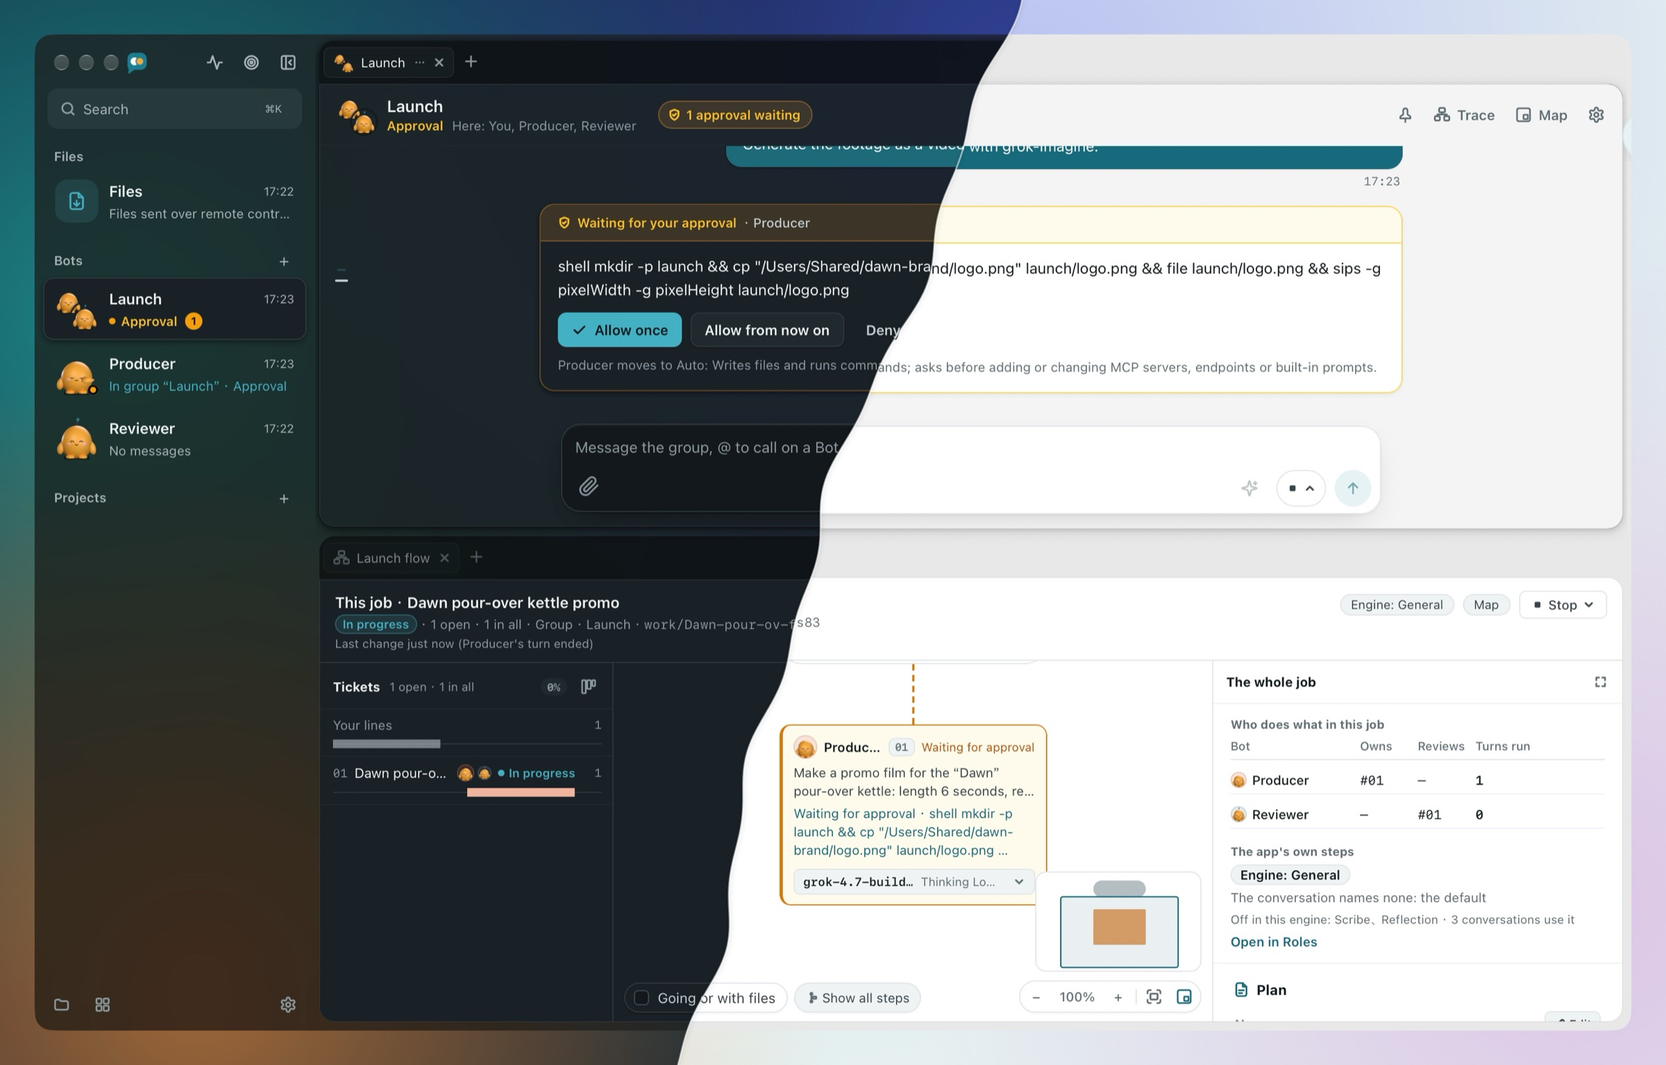
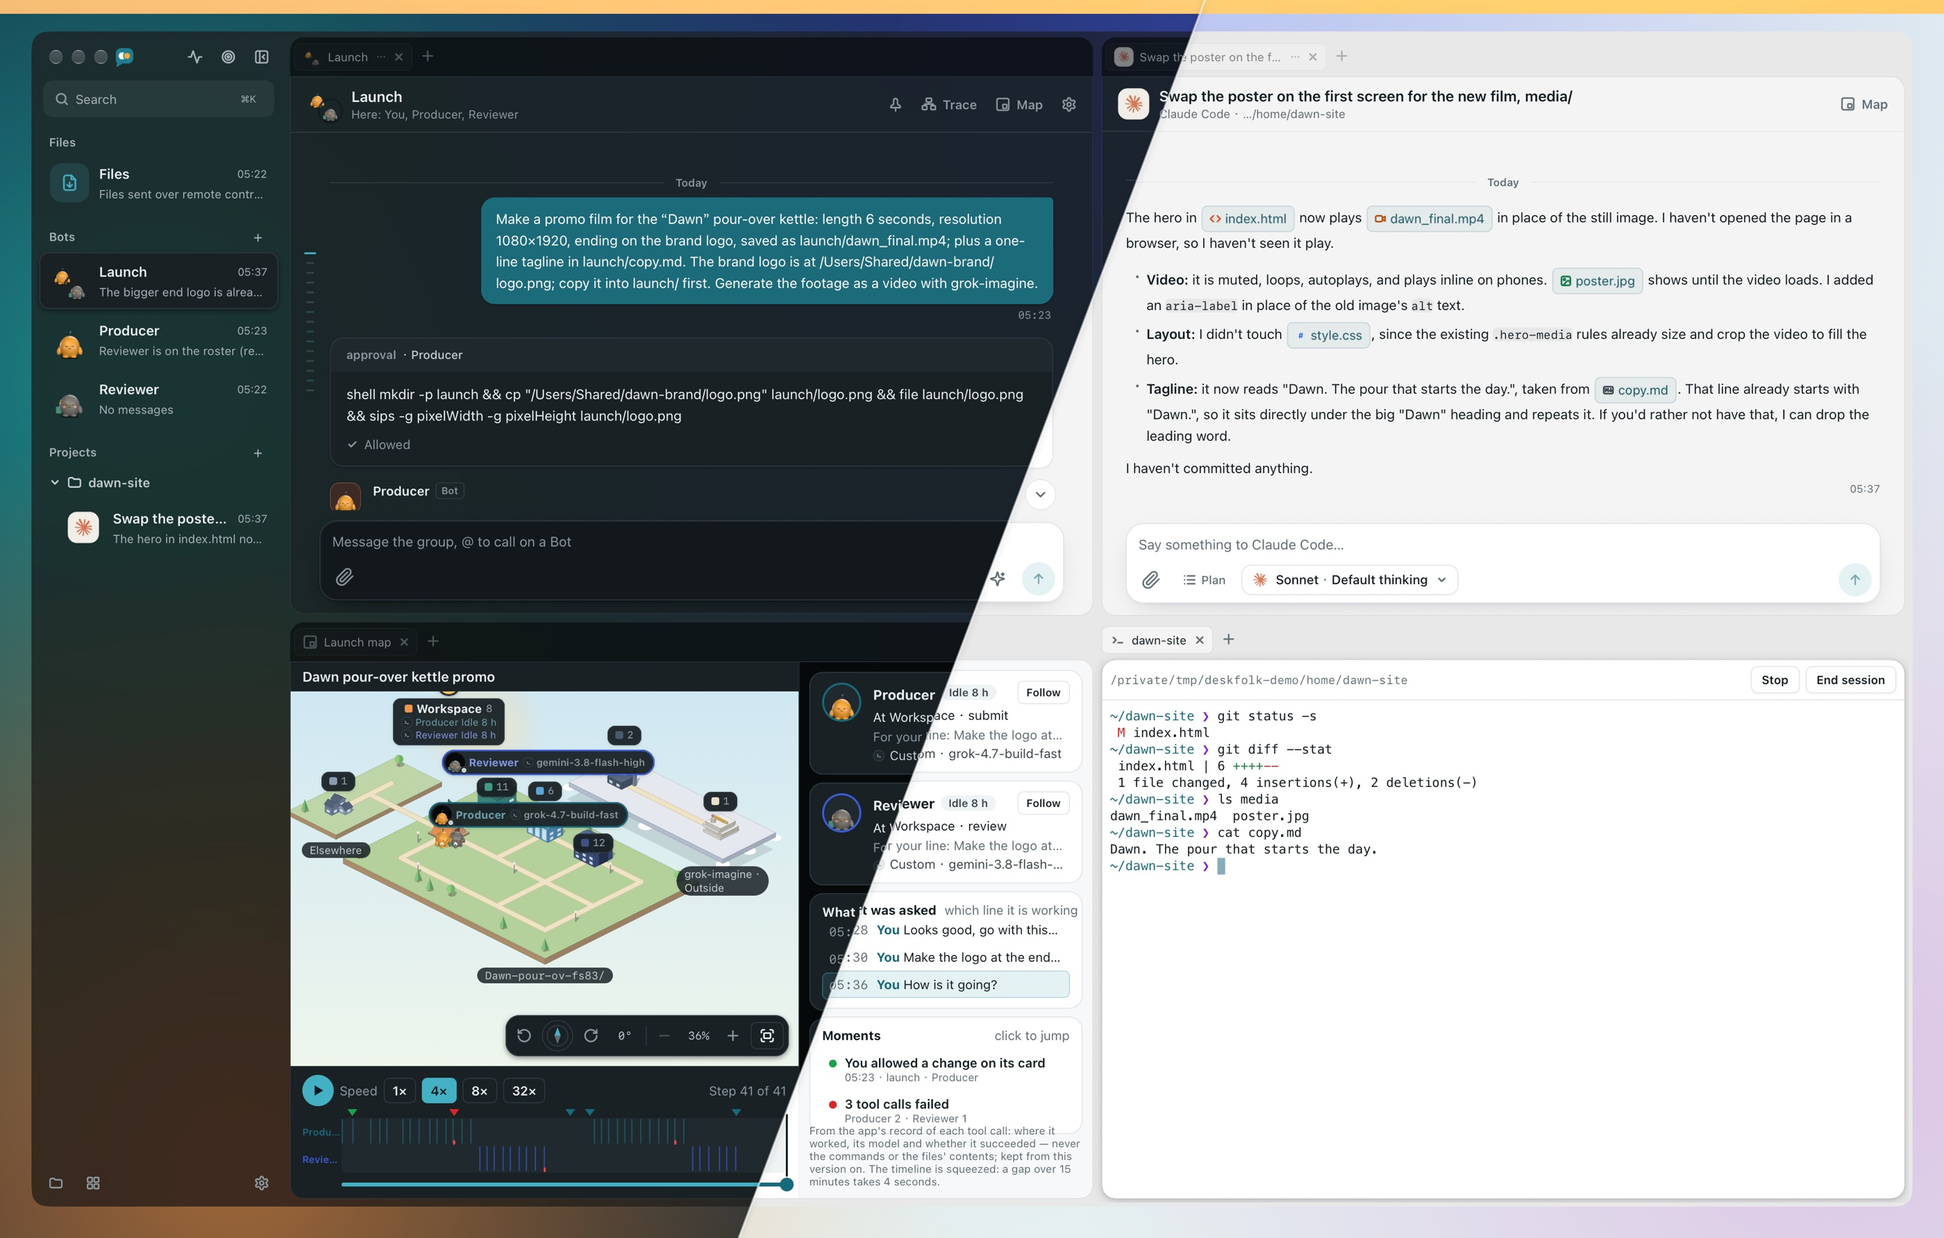
feat(landing): README shots as one big window split evenly
The README's desktop pictures showed one or two panes in a 1480x924
window. Each is now the native app at 1920x1200, split evenly into
2x2 or 3x2 panes: several conversations, task maps, the flow and the
board, a terminal, the routines calendar, spend and roles, around the
moment its caption names. Dark and light are joined along a straight
slanted seam instead of a waving one, and neighbouring pictures slant
opposite ways (ask, done, map /; stop, desk, project \). The Bots wear
their task map characters. Exported 2800 px wide so the click-through
stays legible; the alt texts say what each picture holds.

diff --git a/docs/development.md b/docs/development.md
@@ -825,6 +825,8 @@ README 顶部是短片（30.5 秒，做法见 `apps/landing/scripts/reel/BRIEF.m
 
 真实界面版的宣传片由 `apps/landing/scripts/film/live.ts` 录制，画面是真的信使、真的守护进程：先 `node scripts/film/live.ts shoot` 真跑一遍，再 `node scripts/film/live.ts film` 按录下的回复重演并录制，最后 `node scripts/film/recut.ts` 把耗时长的步骤按整小节快进（默认第 5、8 步 4×，画面右上角标出倍速，标的是取整后的倍数，所以只用整数倍；英文录制里第 7 步多等了一次应用对制片的提醒，上次用的是 `--speed 5=4,7=4,8=2`）并按新时间轴配乐，成片为 `film-out/deskfolk-live-<lang>-<theme>-cut.mp4`。演示用的是隔离实例：`apps/daemon/scripts/demo-studio.ts` 在 `/private/tmp/deskfolk-demo` 里起一个空的守护进程（独立数据目录和 HOME、内存钥匙串；调度照常运行，监督器、外部作业的轮询和没有审查者时的放行都靠它），从首次设置向导开始；它的模型端点与 MCP 是 `apps/daemon/scripts/demo-tape.ts`。真跑时 demo-tape 把请求转给你本机正在用的端点和名为 `westlake-cpa` 的 MCP（地址取自本机守护进程，密钥从 macOS 钥匙串读出、只加在上游请求上，不进演示实例也不进录制数据），按「调用类型 + Bot + 次序」记下每次回复，并把 MCP 返回的图片、视频缓存到 `film-out/tape-<lang>/`；MCP 的响应边收边转给演示实例，收完才记下（上游出图时每 15 秒发一次保活 ping，要是收完再转，守护进程等响应头的 30 秒一到就把调用掐断）。回放时按同样的键答复，两次运行里不同的 ULID 和工作目录名按上下文配对替换，curl 下载经演示 HOME 里的 `.curlrc` 转到本地缓存，所以命令原样也能跑通。各 Bot 的回合和让渲染结束的那次查询，按真跑时记下的先后放出（`demo-tape-order.ts`）：应用按自己的时钟去查渲染，回放又答得比模型快，不排先后的话，第二个渲染的「完成」会落到制片这一轮结束之后，审片的结论先把它叫醒，故事就走岔了，录制数据也会用完。轮到某个渲染的「完成」时，demo-tape 经 demo-studio 的控制口（`127.0.0.1:17958`，环境变量 `REAL_BOT_DEMO_CONTROL`）请演示实例在下一拍就去查，没轮到时来查的先答「还在跑」；一直没来的条目挡住后面的请求超过 60 秒（渲染的 90 秒）就跳过，日志里记一行 `SKIP`。`tape-usage.json` 的 `skipped` / `neverAsked` 列出跳过的和一直没被要的，这两项和 `misses` 都空，这次回放才和真跑一致。回放只花一两分钟、结果一致、不再调用模型。剧本在 `scripts/film/story.ts`（中英两套台词），`film-stage.ts` 负责对齐小节、光标、镜头和实时抓帧（Chrome screencast 以 60fps 采样进 ffmpeg），画面由只在开发态渲染的 `/film/<lang>/live` 页面合成。录制默认按 2 倍像素密度（`--scale 2`，原片 3840×2160）：Chrome 的 screencast 只在显示器本身是高密度时才给设备像素，Playwright 模拟的 `deviceScaleFactor` 不算，所以 `film` 另开一个带 `--force-device-scale-factor` 的 Chrome 来录；交给 Bot 的 logo 仍在 1 倍的那个浏览器里画，命令输出和录制对得上。实测 screencast 在 2 倍下 45–50fps，录制照样按 60fps 的时钟写帧。信使由 `scripts/film/serve-quiet.mjs` 起（开 HMR 但不监听文件，别的改动不会中途刷新页面）；换了依赖后先让 Vite 的依赖缓存稳定下来：回放已经对不上现在的守护进程，就用 `serve-quiet.mjs` 在另一个端口起一份信使，把 `src/` 下每个 `.svelte` / `.ts` 模块都请求一遍（预览窗格的 monaco、pdfjs 这些只在打开时才加载），直到 Vite 的日志里不再出现新优化的依赖。演示 HOME 里的 `ls` 包装把长列表的属主显示成数字，避免录进你的用户名。中文台词录一次、英文要再真跑一次（`--lang en`），明暗主题只需重新回放（`--theme dark`）。另一个会话的 Vite 占着演示信使的 5217 端口时，加 `--messenger-port <端口>` 换一个。录制数据只对得上录制时那一版守护进程的行为：之后守护进程改了 Bot 的工作目录这类东西，回放时模型的回复照样对得上，录下来的命令却会落空（比如成片写不进 `launch/`，产物窗格里显示「文件不在了」）。这时用 `--daemon <录制时那次提交的检出>/apps/daemon` 回放，信使仍是当前代码；要让画面里的守护进程行为也是新的，就重新 `shoot`。回放不把录下的 token 用量传回去：重演时的提示词总会长短差一点，守护进程见到「发得更多、读进更少」就按 ADR 0068 当成端点截断了提示词，这一轮直接失败。剧本里不在镜头里的几件事（给没写审查者的任务补上审片、确认从你的话里提出的检查、任务一出现就把制片的权限模式设成「改动先问」）都是等后台到了那一步才做；等你一句话的交件（ADR 0084）在群里说一句「可以，就用这版。」，说了两次两分钟后还在等，就在看板上直接通过；你的「先停一下」也等活歇下来才说，读句模型没赶上读它（超时，这句就当普通的话）时，剧本等 Bot 回完话，在镜头外补一个和「停下」按钮一样的叫停。可整理器、检查和审查卡各按自己的时钟走，回放又答得比模型快，它们和 Bot 回合的先后还是会变，故事会走岔（2026-10-10 的中文录制就在第 7 步岔开）。这时用 `node scripts/film/live.ts film --live`：录制时直接调用真模型（回复记到 `tape-<lang>-<theme>-live/`，不再回放），四套组合各真跑一次，每次约 10 分钟；等得久的步骤交给下面的 `clips.ts` 加速。真跑时 Bot 自己从 vidgen.x.ai 下载渲染结果，演示 HOME 里也没有 `.curlrc`，所以要留着代理环境变量（这台机器不走代理连不上它，制片下不到片子就停下来等你开网络）；只有回放才去掉代理变量，那时下载走本地缓存，代理反而让 curl 绕过 `.curlrc` 的转向。`--until <n>` 在 `film` 下也管用：拍完第 n 步就停，留下已录的部分，不配乐。
 
+README 的六张桌面截图（`docs/assets/app-<zh|en>-{ask,stop,done,desk,map,project}.jpg`）从 2026-11-12 起是原生（NSH）应用的大窗口：在一次录制留下的演示数据上开一个 1920×1200 的检查窗口，每张均分成 2×2 或 3×2 的窗格（几个会话、任务地图、流程、看板、终端、日程、花费、角色），同一屏用暗色和亮色各拍一张（透过窗口的玻璃，下面垫一张画好的底图），沿一条直的斜线拼成一张，暗色在左，相邻两张的斜线方向相反（ask、done、map 是「/」，stop、desk、project 是「\」），存成 2800 像素宽。拍图的脚本和布局留在本地的 `apps/landing/film-out/take-2026-11-12/`（`film-out/` 不进仓库）。下面说的从录制里切图、`desk.ts` 拍图是之前的做法，社交预览图仍然这样取。
+
 社交预览图和 README 的桌面截图也从这份录制来：对四种组合（`--lang zh|en` × `--theme light|dark`）各跑一遍 `node scripts/film/live.ts film`，再跑 `node scripts/film/clips.ts`（`--from <目录>` 指定录制所在的目录，默认 `film-out/`，要有 `*.silent.mp4`、`*.timeline.json` 和 `*.cues.json`；`--sets zh-dark` 只重做一套）。默认只取首屏静帧 `static/media/walkthrough/<lang>-<theme>/hero.jpg`（`og/[lang]` 和 README 的 `desk` 截图用它）；`--steps` 选几步时再把那几步各切成一段短片，首页已经不播这些短片，取完截图就用默认值再跑一遍，别把短片留在 `static/` 里。切短片时它按时间轴从 `deskfolk-live-<lang>-<theme>.silent.mp4`（录制原片，不是 recut 的成片）里切出每一步的小节，裁到舞台区域（CSS 尺寸 1480×924，不带宣传片两侧的标题；按原片的像素密度裁，2 倍录制就是 2960×1848），超过 11 秒的步骤按 0.5 一档加速到 10 秒上下，编成 30fps、无声的 H.264（CRF 30，`-tune stillimage`）；你走开的那一步（`--away`，默认第 6 步）不加速：窗口藏起来后录制里是一整段静止的桌面（等渲染，几十秒到几分钟），加速了也是十秒什么都不动，所以从 `*.cues.json` 里这一步的第一个和最后一个 `tick`（藏起和叫回窗口时托盘菜单打开）找出这段静止，只留 1.5 秒，在静止画面中间剪掉其余部分，接缝看不出来；窗口叫回来后再留 1.2 秒就结束，不等到下一个小节线（原速下那是几秒不动的窗口）；再取最后一步结束前的画面做首屏静帧。按原片的像素密度裁，高密度屏上一个设备像素对一个视频像素，字是清楚的。README 的四张截图 `docs/assets/app-<zh|en>-{ask,stop,done,desk}.jpg` 也从这里取：中文用 `zh-light`、英文用 `en-dark`，`ask`、`done` 是第 4、8 步短片的最后一帧（`ffmpeg -sseof -0.3 -i 04.mp4 -frames:v 1 -q:v 3 …`），`desk` 就是 `hero.jpg`；`stop` 不取第 7 步的最后一帧（那时制片已经交了改过的版本，画面里看不到叫停），取录制原片里你改 logo 那句发出后约 10 秒的一帧：叫停回执已标成「已解除」，下面是你那句话和正在接着做的制片（发出的时刻在 `*.cues.json` 第 7 步范围里最后一个 `send`，按舞台裁切，2 倍录制是 `crop=2960:1848:780:154`）；重做录制后一起重取：先用 `--steps 4,8` 切一遍取图，再用默认值跑一遍，把短片从 `static/` 里清掉。README 的另两张桌面截图 `docs/assets/app-<zh|en>-{map,project}.jpg` 由 `node scripts/film/desk.ts --demo /private/tmp/deskfolk-demo --out ../../docs/assets` 在同一次录制留下的数据上拍（和 `phone.ts` 一样经 `demo-up.ts` 重新起演示守护进程和信使，1480×924、2 倍像素密度，和从录制里切出的那几张一样大）：`map` 打开群里这件事的任务地图、拖到会话右边、放大一档，停在回放的 62% 处（`--map-at`），两个 Bot 都在干活的时候；地图的光照跟着那一刻的钟点走，按浏览器的时区算，夜里录的可以用 `--map-tz` 换个时区拍成白天（截图里的时间也跟着换）。`project` 在演示 HOME 下建一个小网站 `dawn-site`（`scripts/film/dawn-site/`，配上那次录制的成片和标语，`git init` 一次），开一个 Claude Code 项目会话（模型 `--model`，默认 `sonnet`），在输入框里请它把首屏换成这支片，等它做完，从回复里打开 `index.html`、切到源码，截会话和文件树加源码并排的一屏。这一轮是真跑，用你自己的 Claude Code 登录：Claude Code 按 HOME 找 `~/.claude.json` 和登录钥匙串，所以跑的这段时间演示 HOME 里放一份你的 `.claude.json` 副本、`Library/Keychains` 链到你的钥匙串（演示 HOME 自己的 `.claude.json` 先挪到一边），`.claude` 用演示 HOME 自己的，你的 CLAUDE.md、hook 和插件都不带进来（带进来时它会在回复里提「你全局设置的要求」），会话记录也留在演示目录里；结束时只删链接、放回原来的。守护进程启动时就问一次 Claude Code 登没登录并记住答案，所以要在起演示守护进程之前借好。从 Claude Code 的 shell 里跑时去掉 `CLAUDE_CONFIG_DIR` 和它的会话变量。README 的桌面截图一张一行、占满宽度，下面一行并排四张手机截图 `docs/assets/phone-<zh|en>-{list,chat,job,film}.jpg`（会话列表、群里制片对「怎么样了」的回答、这件事面板的「要点」页、从回答里打开的成片），也从同一次录制来：`node scripts/film/phone.ts --demo /private/tmp/deskfolk-demo --out ../../docs/assets` 在那次录制留下的演示数据上重新起演示守护进程（换端口，模型端点和 MCP 指到空处、还没触发的回看作废，什么都不会再发生），起一份信使，用 390×844、3 倍像素密度的手机视口依次截四屏，语言和主题跟着那次录制（中文用 `zh-light`、英文用 `en-dark`）。演示数据里的工作区路径是绝对路径，所以要在那次录制之后、下一次录制清空 `/private/tmp/deskfolk-demo` 之前跑，或者先把留下的那份放回原处；另有录制在跑时加 `--messenger <另一份检出>/apps/messenger`，两个 Vite 共用一份依赖缓存，这边一重新优化，那边的录制就会被刷新打断。第 5 步的批准卡来自权限模式（ADR 0092）：默认的「自动」下写文件、跑命令都不问，所以剧本在任务出现时（不能更早：拆任务之前的一个 `mkdir` 会停在卡上，任务就出不来）把制片设成「改动先问」，它的下一个改动（通常是把 logo 拷进来的命令）停在卡上，镜头里按「以后都直接干」，制片回到「自动」，之后不再出卡。第 7 步说完改动、制片开始接着做就进第 8 步，不等大家歇下来：只用 ffmpeg 改 logo 的话，重交、检查和审片几分钟就走完，等歇下来会把这些全留在第 7 步里。叫停之前和问「怎么样了」之前，剧本都等整理器在最近一次放行之后整理过一次要点（最多 3 分钟）：看板上「卡住」「需要你看」只跟着上一次整理走，赶上交件正等你一句话时整理的，会把「等用户放行或退回」一直挂到下一次整理。剧本第 8 步：你改了要求、Bot 改完却没再交上来时（已通过的任务，Bot 改的是这件事的 `launch/` 而不是任务自己的目录，应用不会把它退回），等大家都歇下 45 秒，你在镜头里说一句请它交上来（`handBack`）。
 
 下载入口统一指向 `src/lib/site.ts` 的 `LATEST_RELEASE_URL`（`…/releases/latest`）：有正式版后直达最新正式版；从 0.1.0 起 rc 打的标签（版本号带 `-`）仍发成预发布，不会顶掉最新正式版。

diff --git a/README.md b/README.md
@@ -29,32 +29,32 @@
 </p>
 
 <p align="center">
-  <img alt="It asks you first, as much as its permission mode says" src="docs/assets/app-en-ask.jpg"><br>
+  <img alt="It asks you first, as much as its permission mode says: one window split four ways, the group with the card you allowed, a Claude Code project session, the job's task map and a terminal" src="docs/assets/app-en-ask.jpg"><br>
   <sub>It asks you first, as much as its permission mode says</sub>
 </p>
 
 <p align="center">
-  <img alt="Say stop and it stops; your next line sets it going" src="docs/assets/app-en-stop.jpg"><br>
+  <img alt="Say stop and it stops; your next line sets it going: your stop and your change in the group, the job's flow, a project session and the Bots' routines on the calendar" src="docs/assets/app-en-stop.jpg"><br>
   <sub>Say stop and it stops; your next line sets it going</sub>
 </p>
 
 <p align="center">
-  <img alt="Done has a definition: checks, a review, your OK" src="docs/assets/app-en-done.jpg"><br>
+  <img alt="Done has a definition: checks, a review, your OK. The job's flow, the film it handed in, the group where the Reviewer passed it, and what it cost" src="docs/assets/app-en-done.jpg"><br>
   <sub>Done has a definition: checks, a review, your OK</sub>
 </p>
 
 <p align="center">
-  <img alt="Come back to results: the chat, the work and the board together" src="docs/assets/app-en-desk.jpg"><br>
+  <img alt="Come back to results: the chat and the film side by side, the board with every ticket and the whole job below" src="docs/assets/app-en-desk.jpg"><br>
   <sub>Come back to results: the chat, the work and the board together</sub>
 </p>
 
 <p align="center">
-  <img alt="Where the work went: the job as a town of its folders, played back step by step" src="docs/assets/app-en-map.jpg"><br>
+  <img alt="Where the work went: the job's town of folders and the project session's, both conversations, a terminal and the routines ahead, in one window split six ways" src="docs/assets/app-en-map.jpg"><br>
   <sub>Where the work went: the job as a town of its folders, played back step by step</sub>
 </p>
 
 <p align="center">
-  <img alt="Project sessions: Claude Code or Codex in a folder of yours, in the same window as your Bots" src="docs/assets/app-en-project.jpg"><br>
+  <img alt="Project sessions: Claude Code in a folder of yours, the page it changed, a terminal and its task map, beside the Bots' roles and their group, in one window" src="docs/assets/app-en-project.jpg"><br>
   <sub>Project sessions: Claude Code or Codex in a folder of yours, in the same window as your Bots</sub>
 </p>
 

diff --git a/README.zh.md b/README.zh.md
@@ -29,32 +29,32 @@
 </p>
 
 <p align="center">
-  <img alt="要不要先问你，按权限模式来" src="docs/assets/app-zh-ask.jpg"><br>
+  <img alt="要不要先问你，按权限模式来：一个窗口分成四格，群里你放行过的卡片、一个 Claude Code 项目会话、这件事的任务地图和一个终端" src="docs/assets/app-zh-ask.jpg"><br>
   <sub>要不要先问你，按权限模式来</sub>
 </p>
 
 <p align="center">
-  <img alt="说停就停，下一句接着做" src="docs/assets/app-zh-stop.jpg"><br>
+  <img alt="说停就停，下一句接着做：群里你的叫停和改动、这件事的流程、一个项目会话，还有日程上 Bot 的例行事务" src="docs/assets/app-zh-stop.jpg"><br>
   <sub>说停就停，下一句接着做</sub>
 </p>
 
 <p align="center">
-  <img alt="做完有定义：检查、审查和你的放行" src="docs/assets/app-zh-done.jpg"><br>
+  <img alt="做完有定义：检查、审查和你的放行。这件事的流程、交上来的成片、审片通过的群聊，和花了多少" src="docs/assets/app-zh-done.jpg"><br>
   <sub>做完有定义：检查、审查和你的放行</sub>
 </p>
 
 <p align="center">
-  <img alt="回来看结果：会话、成品、看板摆在一起" src="docs/assets/app-zh-desk.jpg"><br>
+  <img alt="回来看结果：会话和成片并排，下面是每张任务都在的看板和整件事" src="docs/assets/app-zh-desk.jpg"><br>
   <sub>回来看结果：会话、成品、看板摆在一起</sub>
 </p>
 
 <p align="center">
-  <img alt="活在哪儿干的：这件事画成一座文件夹小镇，一步步回放" src="docs/assets/app-zh-map.jpg"><br>
+  <img alt="活在哪儿干的：这件事和项目会话各自的文件夹小镇、两个会话、一个终端和接下来的日程，一个窗口分成六格" src="docs/assets/app-zh-map.jpg"><br>
   <sub>活在哪儿干的：这件事画成一座文件夹小镇，一步步回放</sub>
 </p>
 
 <p align="center">
-  <img alt="项目会话：在你的文件夹里直接用 Claude Code 或 Codex，和 Bot 在同一个窗口" src="docs/assets/app-zh-project.jpg"><br>
+  <img alt="项目会话：在你的文件夹里用 Claude Code，它改的页面、终端和它的任务地图，旁边是 Bot 的角色页和它们的群，在同一个窗口" src="docs/assets/app-zh-project.jpg"><br>
   <sub>项目会话：在你的文件夹里直接用 Claude Code 或 Codex，和 Bot 在同一个窗口</sub>
 </p>
 
